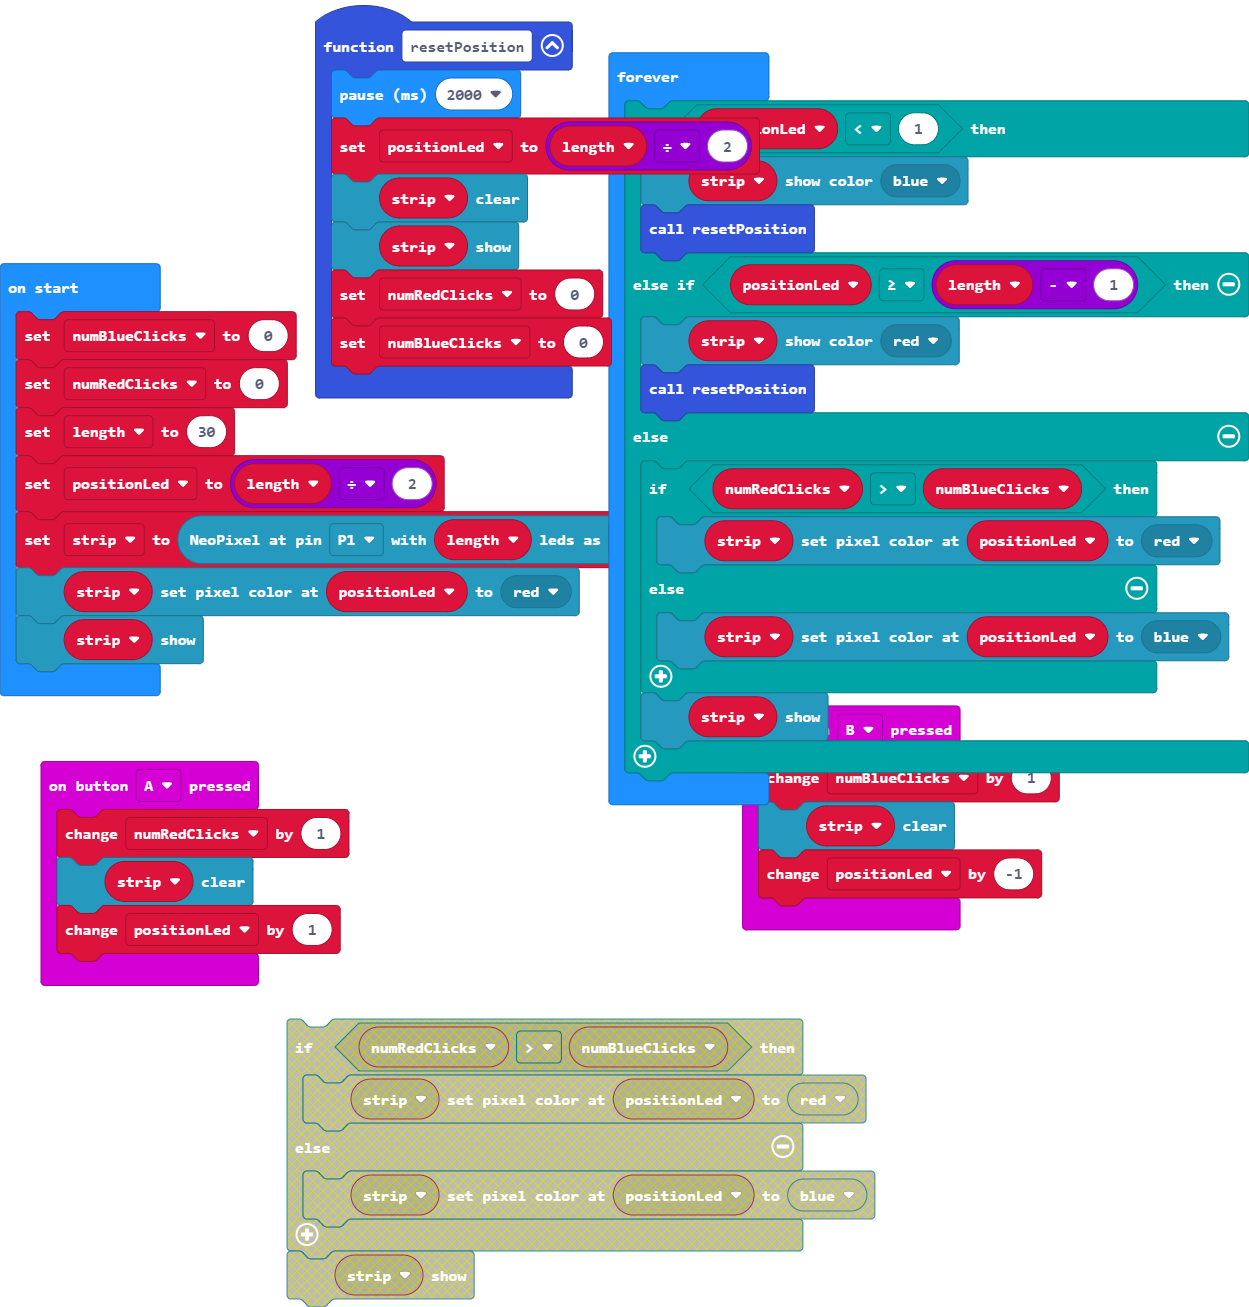
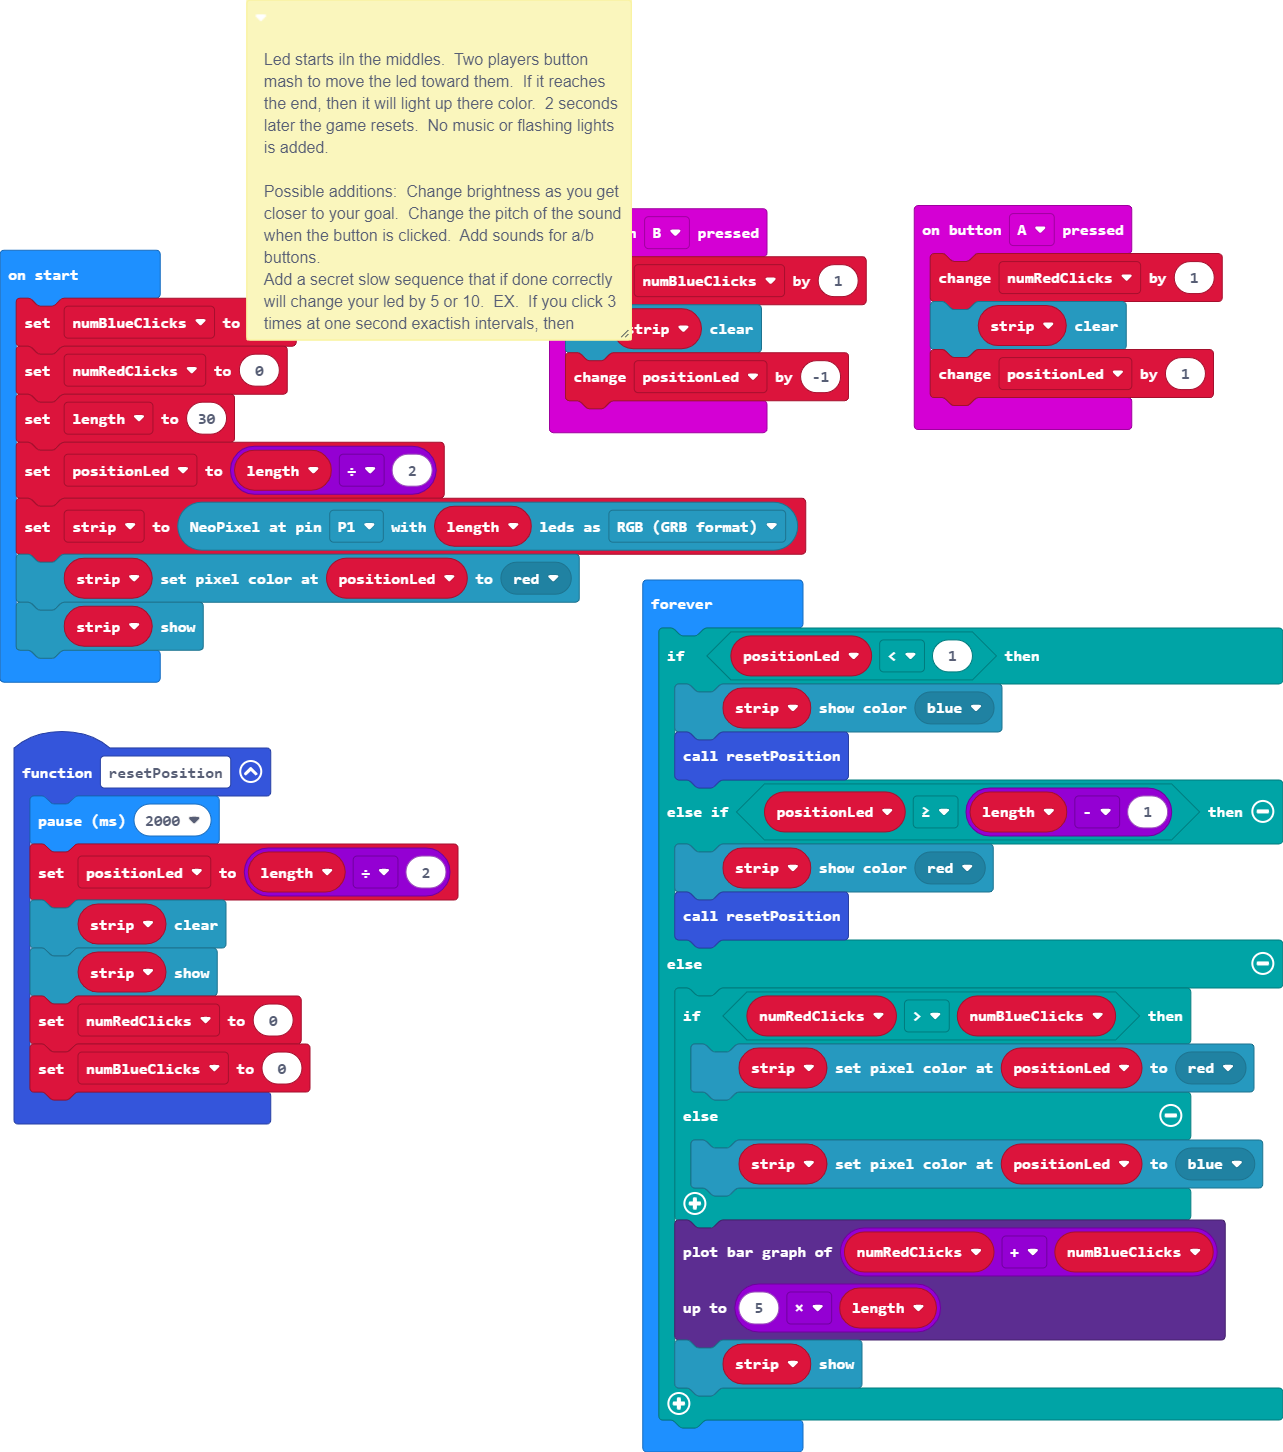
added a plotting of the total number of clicks to the micro:bit screen

diff --git a/main.ts b/main.ts
@@ -16,6 +16,13 @@ input.onButtonPressed(Button.B, function () {
     strip.clear()
     positionLed += -1
 })
+/**
+ * Led starts iln the middles.  Two players button mash to move the led toward them.  If it reaches the end, then it will light up there color.  2 seconds later the game resets.  No music or flashing lights is added.
+ * 
+ * Possible additions:  Change brightness as you get closer to your goal.  Change the pitch of the sound when the button is clicked.  Add sounds for a/b buttons.  
+ * 
+ * Add a secret slow sequence that if done correctly will change your led by 5 or 10.  EX.  If you click 3 times at one second exactish intervals, then change the position by 10.
+ */
 let strip: neopixel.Strip = null
 let positionLed = 0
 let length = 0
@@ -41,6 +48,10 @@ basic.forever(function () {
         } else {
             strip.setPixelColor(positionLed, neopixel.colors(NeoPixelColors.Blue))
         }
+        led.plotBarGraph(
+        numRedClicks + numBlueClicks,
+        5 * length
+        )
         strip.show()
     }
 })
